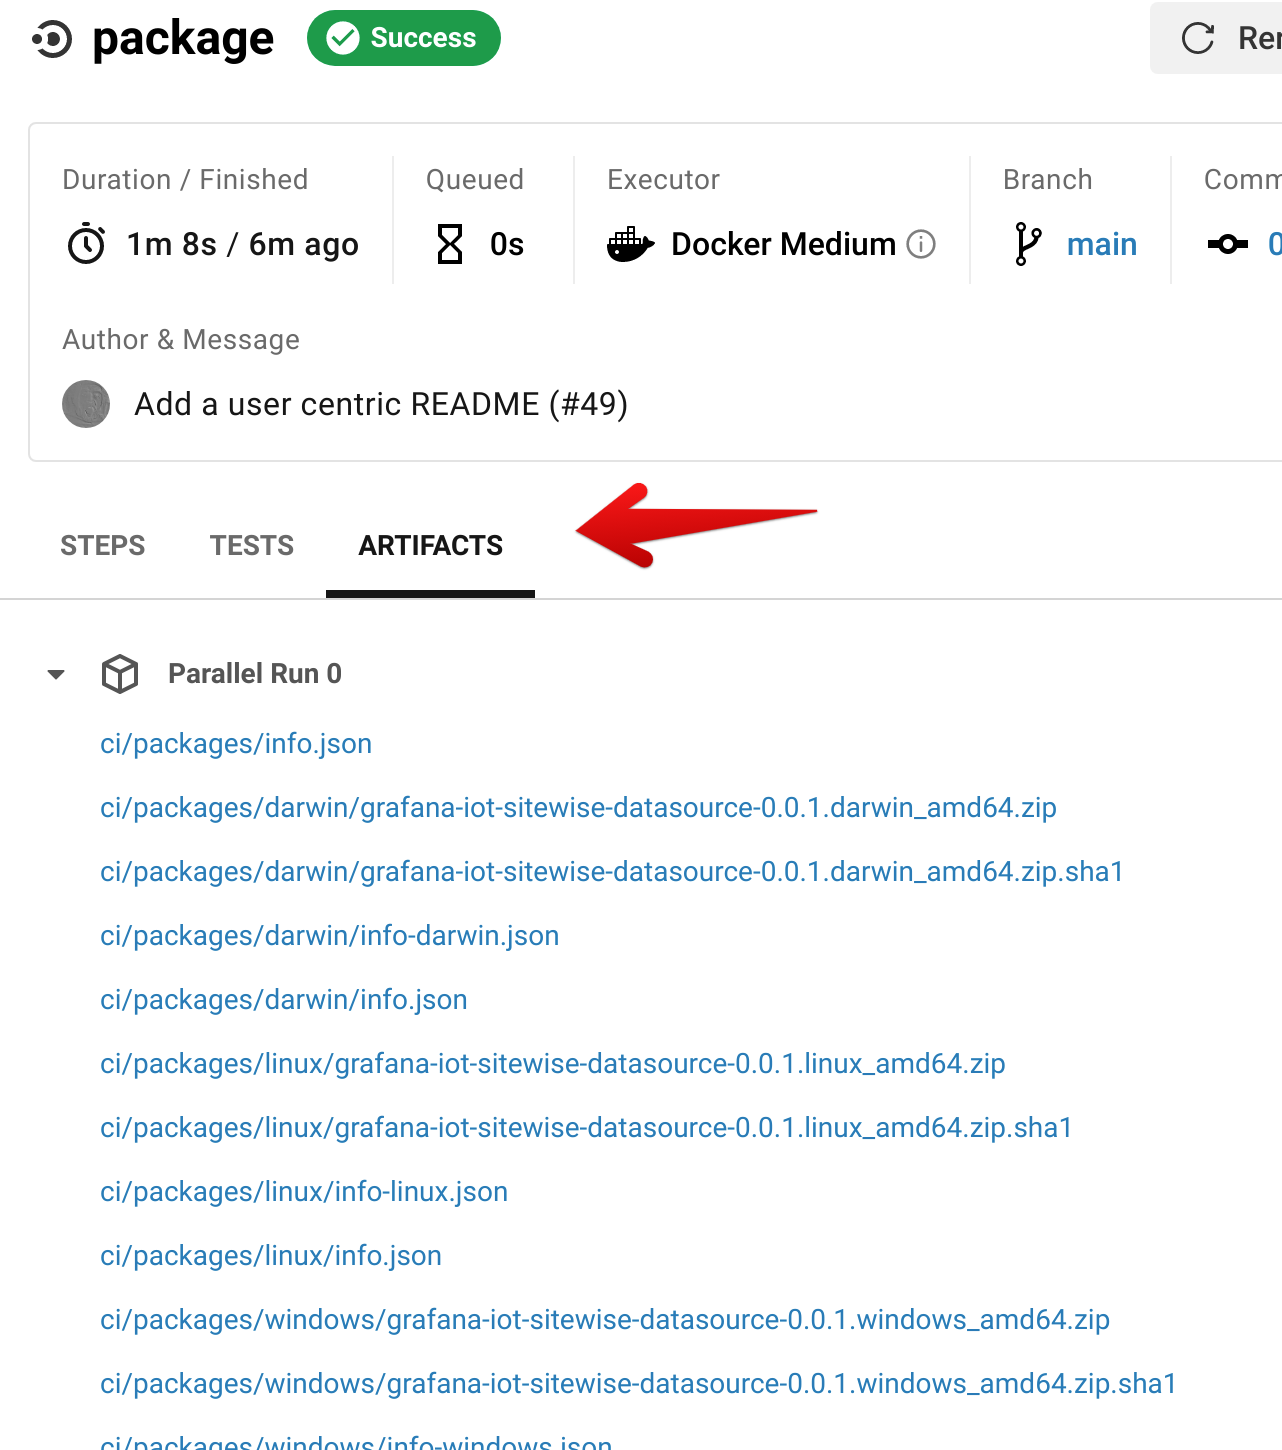
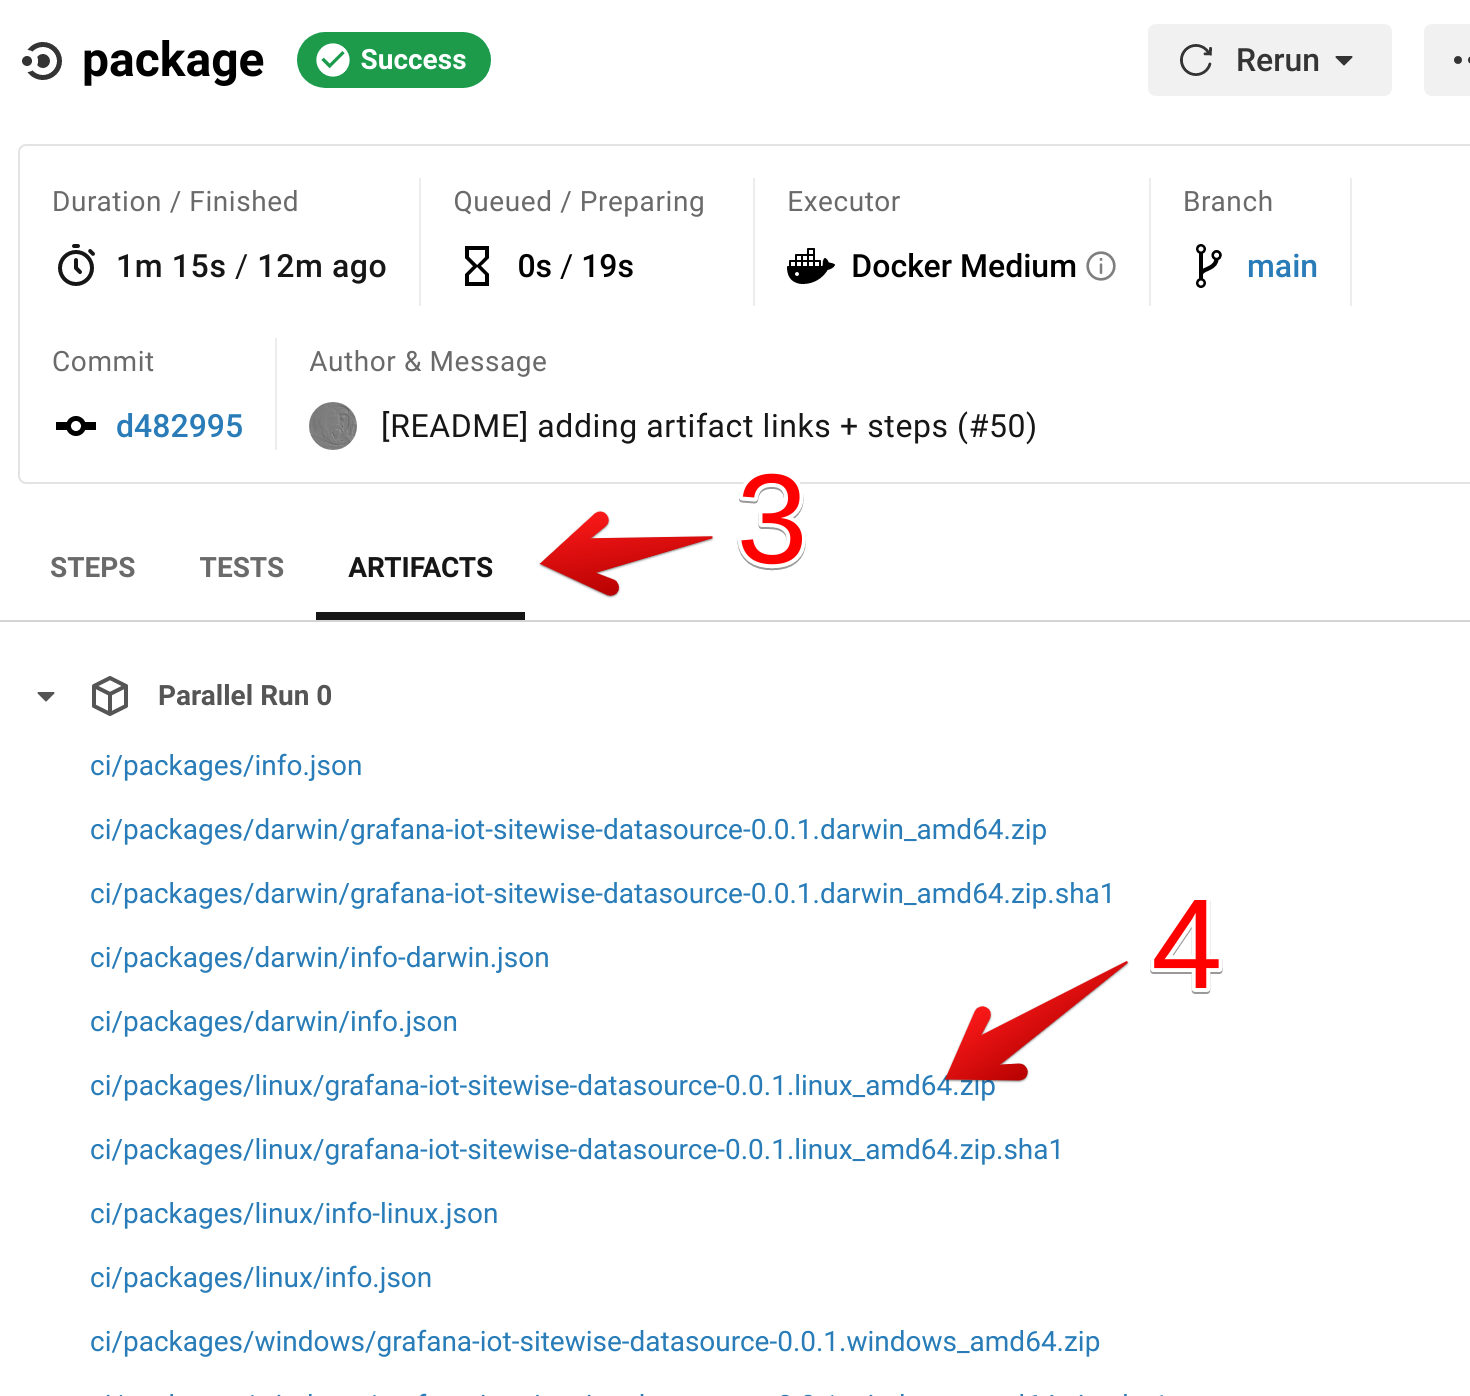
update README

diff --git a/README.md b/README.md
@@ -8,7 +8,8 @@ For configuraiton options, see: [src/README.md](src/README.md)
 To get the latest build artifacts for a branch:
 1. find the green checkbox after a build
 2. click link to the "package" details link
-2. open the
+3. open the "Artifacts" tab
+4. Pick the appropriate download for your platform
 
 <table>
   <tr>
